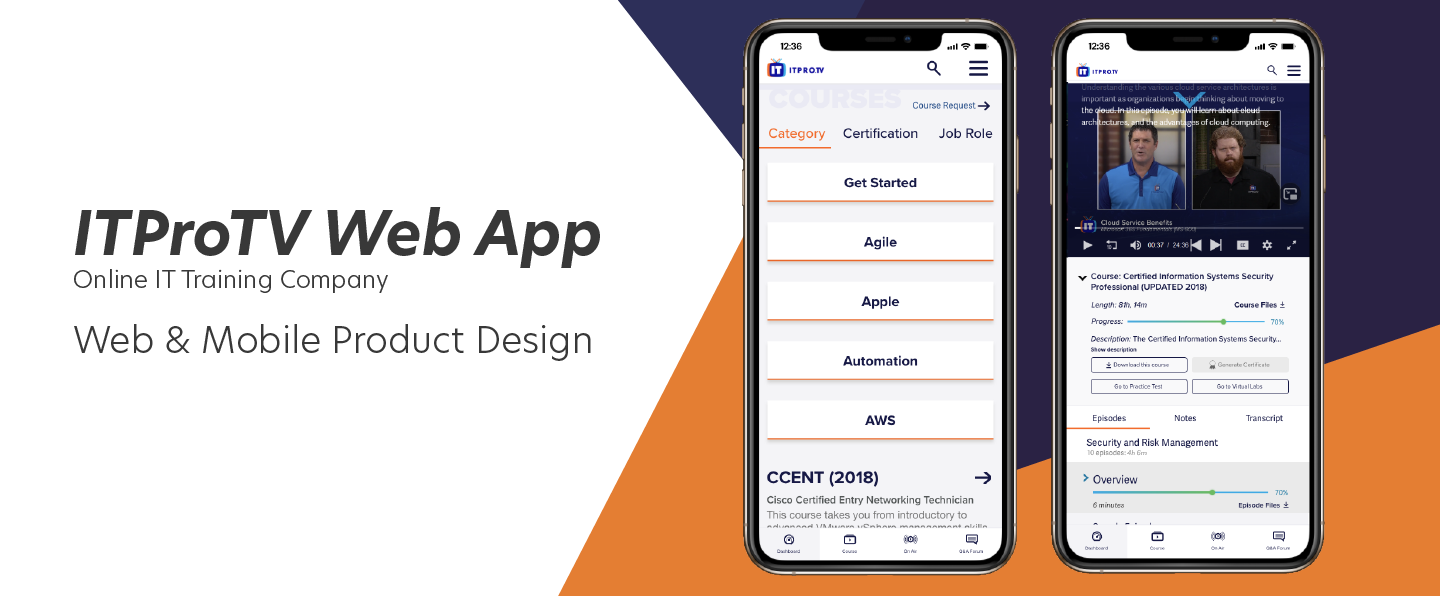
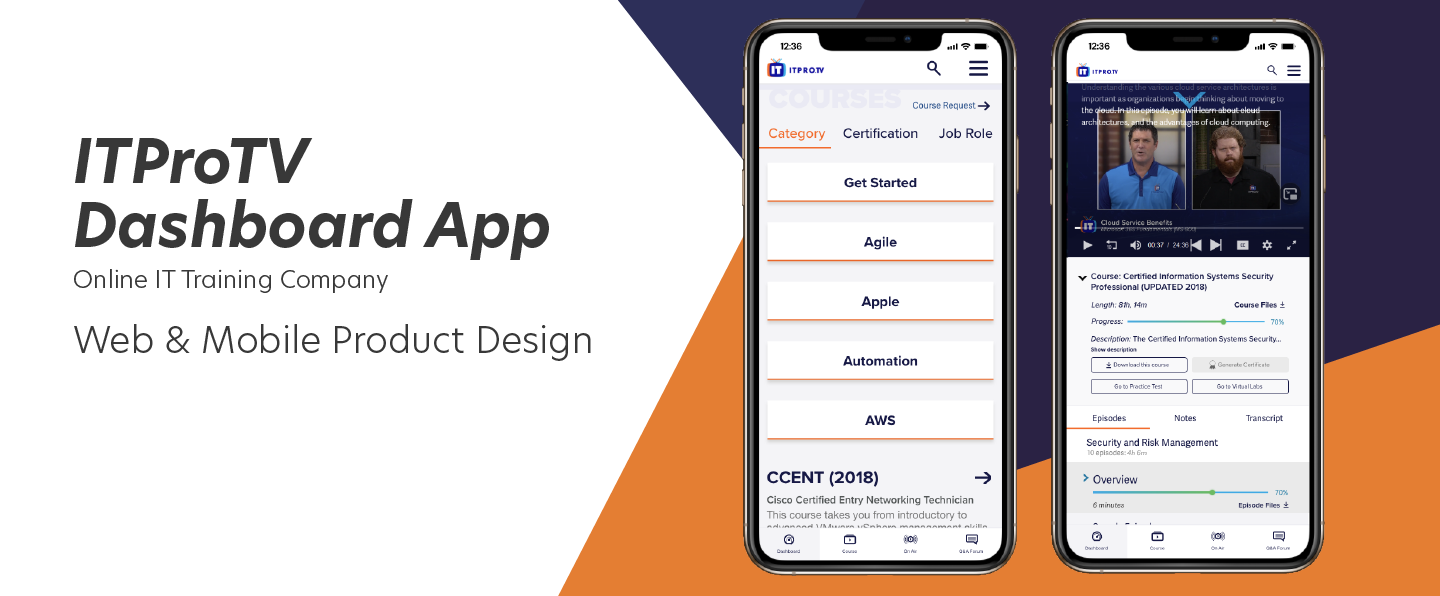
Revert and update dashboard hero

Changed region(s): [[0.0312, 0.3322, 0.4375, 0.453], [0.0312, 0.2114, 0.2188, 0.302]]

diff --git a/projects/dashboard/index.html b/projects/dashboard/index.html
@@ -31,7 +31,7 @@
 				</nav>
 				<div class="py-3 px-4 px-xl-0">
 					<div class="text-center mb-4"><img src="../assets/project-img/dashboard/dashboard-hero.png" /></div>
-					<h4>The ITProTV Web App is a logged-in user experience for free subscribers, paid consumer subscribers, and enterprise subscribers. They can access recently watched course videos, find new courses, view their accomplishments, or access learning resources.</h4>
+					<h4>The ITProTV Dashboard App is a logged-in user experience for free subscribers, paid consumer subscribers, and enterprise subscribers. They can access recently watched course videos, find new courses, view their accomplishments, or access learning resources.</h4>
 					<svg class="mb-3" viewBox="0 0 100.5 3"><line y1="1.5" x2="10" y2="1.5" fill="none" stroke="#16505b" stroke-miterlimit="3" stroke-width="0.5"/></svg>
 					<h4>My Role</h4>
 					<p>UX Designer/Developer for a logged-in member dashboard experience from conception to implementation.</p>

diff --git a/index.html b/index.html
@@ -41,7 +41,7 @@
 					<a class="m-1" href="projects/dashboard/">
 						<div class="grid-content" id="dashboard-thumbnail">
 							<div class="overlay">
-								<h3 class="overlay-text">ITProTV Web App</h3>
+								<h3 class="overlay-text">ITProTV Dashboard</h3>
 							</div>
 						</div>
 					</a>
